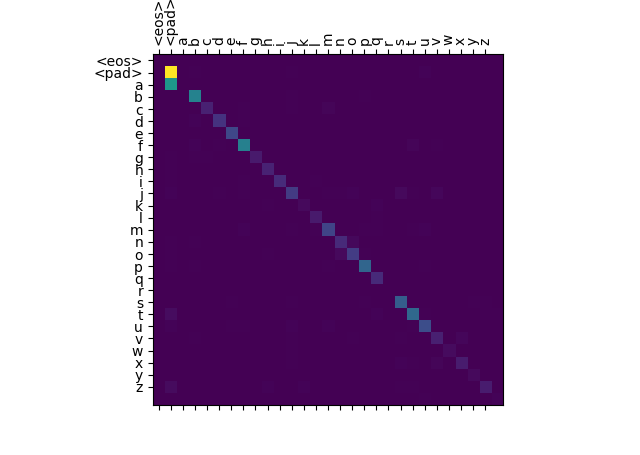
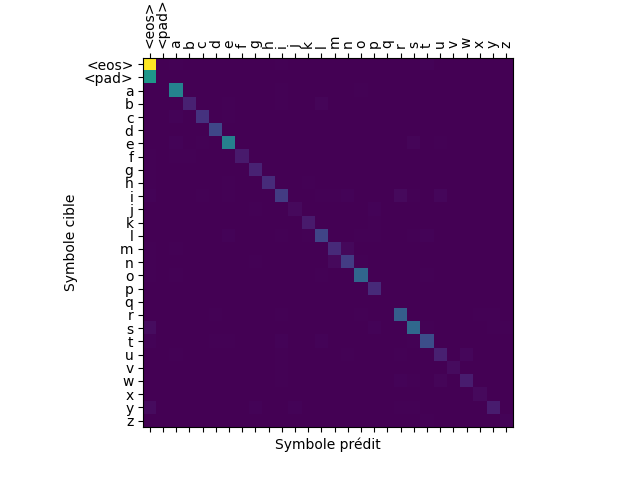
Finalisation pour la matrice de conf

diff --git a/main.py b/main.py
@@ -216,7 +216,7 @@ if __name__ == '__main__':
         to_verify = np.random.randint(0, len(dataset_test), size=10)
         print(to_verify)
         dist_test = 0
-        confusion_mat = np.zeros((29,29))
+        confusion_mat = np.zeros((28,28))
         for id_test, data in enumerate(dataload_test):
             # Formatage des données
             data_seq, target_seq = data
@@ -274,6 +274,8 @@ if __name__ == '__main__':
         ax_conf.set_xticks(np.arange(len(symb)), symb)
         ax_conf.set_yticks(np.arange(len(symb)), symb)
         plt.xticks(rotation= 90,ha='center')
+        plt.ylabel("Symbole prédit")
+        plt.xlabel("Symbole cible")
         plt.show()
 
 

diff --git a/metrics.py b/metrics.py
@@ -25,11 +25,11 @@ def edit_distance(x,y):
 
 def confusion_matrix(true, pred, ignore=[]):
     # Calcul de la matrice de confusion
-    K = 29  # Nombre de symboles
+    K = 28  # Nombre de symboles
     result = np.zeros((K, K))
 
     for i in range(len(true)):
-        result[true[i]][pred[i]] += 1
+        result[true[i]-1][pred[i]-1] += 1
 
     # TP = np.diag(result)
     # FP = result.sum(axis=0) - np.diag(result)
